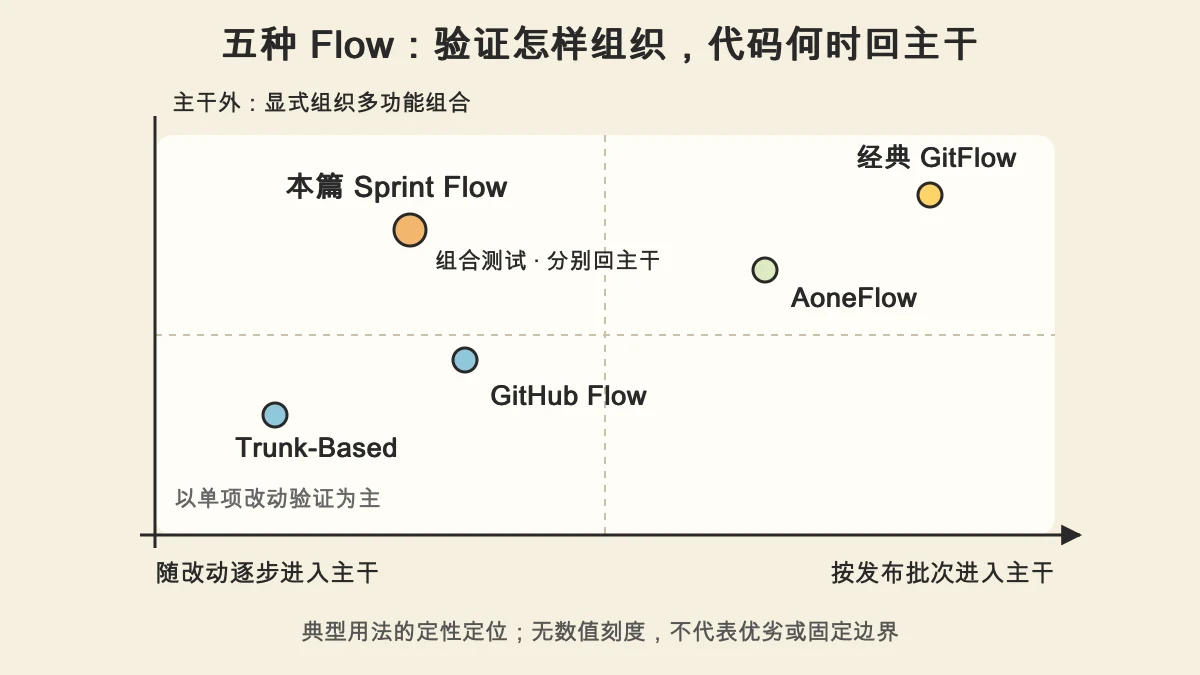
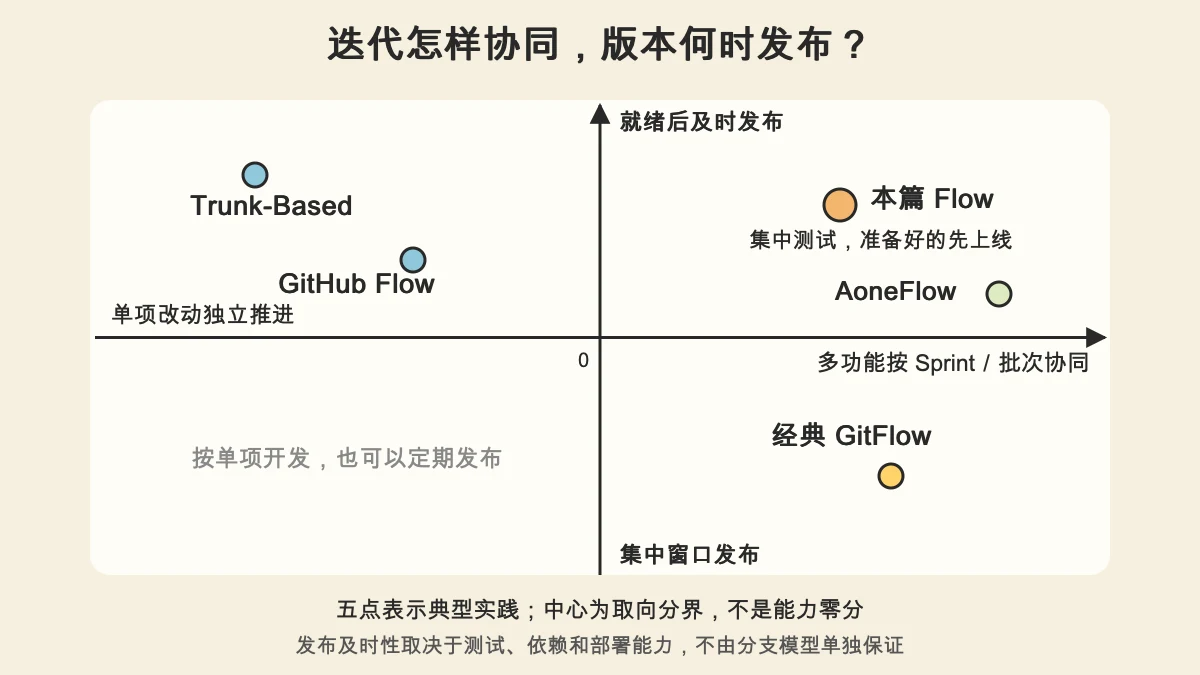
docs: position workflows by iteration coordination and release cadence

diff --git a/_posts/zh-CN/2026-09-14-sprint-git-flow.md b/_posts/zh-CN/2026-09-14-sprint-git-flow.md
@@ -206,11 +206,11 @@ feat/export-report ── MR ──> main
 ## 别的团队怎么做：与四种主流模型对比
 {: #workflow-comparison }
 
-选型先看两件事：**主干是随改动逐步接收代码，还是等发布批次稳定后再接收；主干之外，主要验证单项改动，还是显式组织多功能组合。**
+选型先看工作方式：**横轴是迭代组织方式，从单项改动独立推进，到多功能按 Sprint／批次协同；纵轴是发布节奏，从集中窗口发布，到准备好后及时发布。**
 
-![五种流程的典型定位：本篇先组织共享组合测试，再让已放行改动分别回主干；AoneFlow 和经典 GitFlow 更强调发布批次回主干](/assets/img/sprint-git-flow/workflow-map.webp)
+![以迭代协同和发布节奏定位五种 Flow：本篇位于集中协同且允许准备好的改动及时上线的一侧](/assets/img/sprint-git-flow/workflow-map.webp)
 
-图中五个点是典型用法的定性示意，不是评分或固定坐标；实际位置随团队实现变化。横轴说的是代码进入生产主干的节奏，不是部署频率。纵轴只看主干之外的验证组织方式，主干开发仍会持续验证主干上的组合结果。GitHub Flow 也能在合并前部署测试环境。
+五个点表示典型实践，中心是取向分界，不是能力零分。我们的目标位置在右上：多人按迭代一起测试，但修复不必等待整个迭代结束。AoneFlow 按选定组合推进，经典 GitFlow 更常配合版本窗口；Trunk-Based 与 GitHub Flow 常用于小步交付，也可以按周期发布。实际及时性取决于测试、依赖与部署能力，分支模型不保证发布速度。
 
 | 模型 | 主要代码路径 | 优先考虑的场景 | 主要代价 |
 |---|---|---|---|
